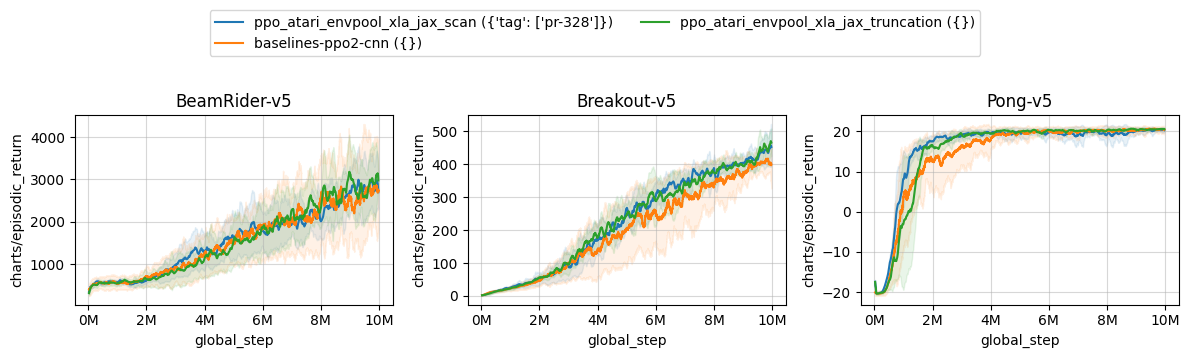
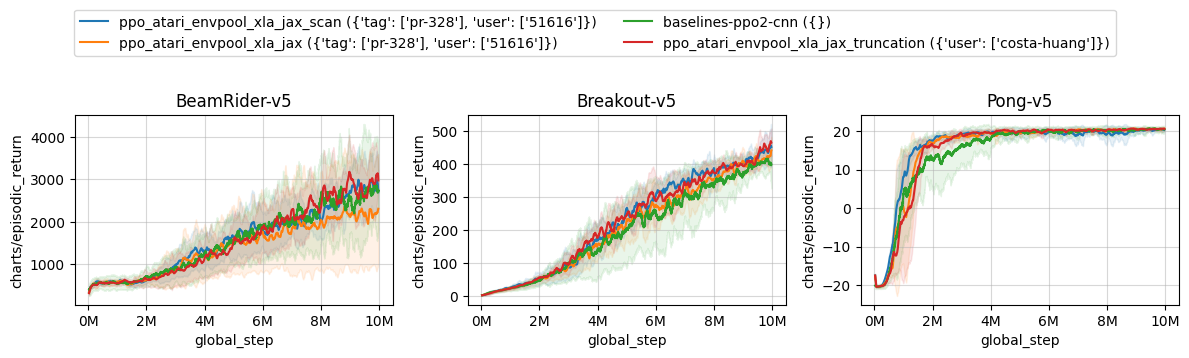
add png for learning curve vs wall-clock time

diff --git a/docs/rl-algorithms/ppo.md b/docs/rl-algorithms/ppo.md
@@ -756,13 +756,14 @@ Below are the average episodic returns for `ppo_atari_envpool_xla_jax_scan.py` i
 
 Learning curves:
 
-![](../ppo/ppo_atari_envpool_xla_jax_scan/compare.png)
-
-Tracked experiments:
-
 ???+ info
 
     The trainig time of this variant and that of [ppo_atari_envpool_xla_jax.py](https://github.com/vwxyzjn/cleanrl/blob/master/cleanrl/ppo_atari_envpool_xla_jax.py) are very similar but the compilation time is reduced significantly (see [vwxyzjn/cleanrl#328](https://github.com/vwxyzjn/cleanrl/pull/328#issuecomment-1340474894)). Note that the hardware also affects the speed in the learning curve below. Runs from [`costa-huang`](https://github.com/vwxyzjn/) (red) are slower from those of [`51616`](https://github.com/51616/) (blue and orange) because of hardware differences.
+
+![](../ppo/ppo_atari_envpool_xla_jax_scan/compare.png)
+![](../ppo/ppo_atari_envpool_xla_jax_scan/compare_time.png)
+
+Tracked experiments:
 
 <iframe src="https://wandb.ai/openrlbenchmark/openrlbenchmark/reports/Regression-Report-ppo_atari_envpool_xla_jax_scan--VmlldzozMTk2MzM2" style="width:100%; height:500px" title="Atari-CleanRL-s-PPO-Envpool-Jax-scan"></iframe>
 
